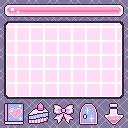
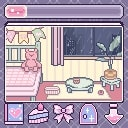
奇怪，为什么 background 推不上去，但是garden，jpg明明可以，好奇怪

diff --git a/src/menu.cpp b/src/menu.cpp
@@ -1,0 +1,42 @@
+#if defined(__AVR__)
+ #include <avr/pgmspace.h>
+#elif defined(__PIC32MX__)
+ #define PROGMEM
+#elif defined(__arm__)
+ #define PROGMEM
+#endif
+
+#include "menu.h"
+
+uint16_t menu[3712] = {
+0xB519,0xA4D8,0x8414,0x7371,0x9414,0x8B92,0x8351,0x8BF3,0xA516,0x7C33,0x8413,0x7350,0x8372,0x9BF4,0xACB7,0x8393,0x9394,0x8B53,0x8B53,0x9BF5,0x8373,0xBD39,0xACF8,0x7B92,0x83F3,0x7BD3,0x7BD3,0x73D2,0x8454,0x94B6,0x8434,0x7392,0x8B93,0x8B93,0x93D4,0xACD7,0x7B92,0x7BB2,0x8C75,0x7BF3,0x7BF2,0x73B2,0xAD38,0xA4F7,0x7B92,0x9414,0x8393,0x8B93,0x8BB4,0x8BD4,0x9C97,0x83D4,0x7BB3,0x8C34,0x7BD2,0x7BD3,0xB5BA,0x6B51,0x7BB2,0x8C55,0x6B31,0x7B93,0x9436,0xA497,0xB53A,0x7352,0x9476,0x7BB3,0x7BB3,0x7BD3,0x7BF3,0x9CD7,0x7392,0x73B2,0x9475,0x7B92,0x8393,0xB519,0x7B11,0x8BF4,0x83B3,0x83F4,0x7BB3,0x8C14,0xA4F8,0xACF8,0x7B72,0x83B3,0x83B3,0x83B3,0x8BD4,0x83B3,0xAD18,0x8C14,0x7B92,0x7BB2,0x7B91,0x9414,0xA496,0x8C34,0x7B92,0x7BB3,0x7BB3,0x83F4,0x8414,0x9CB7,0xB55A,0x7BB3,0x7BB3,0x8C14,0x7331,0x8C34,0x7B71,0xAD38,0x8C14,0x7351,0x83D3,0x83F4,0x7372,0xAD39,0x7BB3,0x83D3,0x83F3,0x7B92,0x83D3,0x9414,0xA4B6,0xACD7,
+0x7311,0x8BF4,0xA4F8,0x7BB3,0x7B72,0x8B92,0xA435,0x7B51,0x7BF2,0x9D16,0x73B1,0x9455,0x8BB3,0xACB7,0x7B72,0x8BF4,0x8332,0x9C16,0x8B94,0x8373,0xACD8,0x83B3,0x6AF0,0xC5BB,0x83D3,0x7BD3,0x7BB2,0x8C34,0x7BF3,0x7BF3,0x9CD7,0x9455,0x8BF4,0x8373,0xACB7,0x8372,0x9435,0x7B91,0x7BB2,0x7371,0x7BB2,0xC5FB,0x6B51,0x83D3,0xA4B6,0x7B92,0x8BD3,0x8393,0x8BB4,0x7331,0x9415,0x9CB7,0x83F4,0x7B92,0x7371,0xAD79,0x5AEF,0x8C55,0x8C55,0x7371,0x9CB7,0x83D4,0xB519,0x83D4,0x83D4,0xA4B8,0x7B93,0x6B51,0x8414,0x7BB3,0x7BF3,0x8414,0xAD59,0x7BD3,0x7B92,0x7B92,0xA496,0x7B52,0xAC97,0x7B72,0x83D4,0x7392,0x8C35,0x9476,0x7B92,0x8BF4,0xB4F9,0x8BD4,0x8372,0x8BD4,0x8BF4,0x7331,0x83D3,0x83F3,0x8C14,0x9454,0x9454,0xA4B6,0x83B3,0x83D3,0x8C34,0x7BB2,0x7BD3,0x83F4,0xA518,0x7372,0x7B93,0xA4F8,0x8C14,0x7B92,0x8BF4,0x7B71,0x9414,0x8BF3,0x9C96,0x8C14,0x83F3,0x6B51,0xBD9A,0x6B51,0x7BB3,0x8C14,0x7BB3,0x83B3,0x7B92,0xA4B7,0x9435,0x83B2,
+0x8BD4,0x83D4,0x7BD3,0xAD38,0x8BD3,0x93B3,0x8331,0x9C14,0x7BD2,0x7C33,0x9D17,0x7BB2,0xBD39,0x8373,0x83F5,0x83D4,0x8C15,0x7332,0x8393,0xA4D8,0x7B73,0x9C97,0x7B93,0x7351,0xA4B7,0x83B3,0x8BF4,0x7B92,0x7BD3,0x8C14,0x7BB2,0x9C96,0x7B72,0xB539,0x8BF4,0x7B72,0x8392,0x8BF3,0x83D3,0x9475,0xA4D6,0x83D2,0x7B92,0x7B92,0x8BF4,0xAD18,0x83B3,0x9435,0x9435,0x8BD4,0x83B3,0x83B3,0xAD18,0x7B92,0xA4F7,0x83F3,0x9455,0x7B92,0x83F3,0x7B92,0x7B92,0xACF8,0x8393,0x7B52,0x83B3,0x83D4,0xAD39,0x83F4,0x7351,0x9455,0x7351,0x7391,0x83F3,0x9CB6,0x7B92,0xC5BB,0x7B72,0x8BF4,0x6AD0,0x8BF4,0x83D3,0x7371,0xAD18,0x9435,0x7B92,0x83B3,0x7311,0xB539,0x93F4,0x8372,0x83B3,0x8BF4,0x9414,0x9455,0x9C75,0x7371,0x9C96,0x83B2,0x8C14,0x83B3,0x7B92,0x8414,0x7BD3,0x9CB7,0x8C15,0x7BB3,0x8C15,0x7352,0xAD18,0x83B3,0x9475,0x8BF3,0x8392,0x6AEF,0x9C95,0xA4B6,0x8BF4,0x9CB7,0x83D4,0x83D4,0x83F4,0x7372,0x83F4,0x83D3,0xA4B7,0x83B3,0x83D3,0x7B71,
+0x8393,0x83B3,0x8414,0x7371,0xB518,0x8B52,0x8B32,0x93D4,0x7BB3,0x73F3,0x73B3,0xA518,0x7311,0x8BF5,0x73B3,0x73F4,0x73B4,0x8435,0xAD5A,0x7BB3,0x7BB3,0x7BB4,0x8C15,0x83B3,0x9435,0xB518,0x7B72,0x7B72,0x9435,0x7351,0x83B2,0x9435,0xA4F8,0x7B92,0x8BF4,0x7B92,0x9434,0x8392,0x7B71,0xA496,0x3108,0x7B51,0x8BD3,0x9414,0x83B2,0x7BB2,0x9C96,0x6B51,0x7331,0x7B92,0x8C14,0x83F3,0x8392,0xBD79,0x8BD3,0x7B71,0x83D3,0x83B2,0x7B71,0x8BD3,0xB539,0x83B3,0x83D3,0x9435,0x83D4,0x7B92,0x83B3,0xACF8,0x9C55,0x6AEF,0x9435,0x83D2,0x8392,0x9435,0x9C55,0x7B71,0x9C55,0x7B92,0x8BD3,0x8BF4,0x83B3,0xB559,0x7351,0x8BF4,0x8BD4,0x9435,0x8373,0x8393,0xB519,0x8372,0x7B52,0x9435,0x83B3,0x7B72,0x83B3,0xB539,0x9434,0x83B2,0x7351,0x9435,0x7B92,0x7372,0xAD39,0x8C35,0x7372,0x83F4,0x8C35,0x83B3,0x7331,0xACD7,0x7B72,0x8372,0x8392,0x93F3,0x93F3,0x7330,0xA4B6,0x9435,0x7B92,0x83D3,0x7BB3,0x83D3,0x83B3,0xACF8,0x8BF4,0x83D3,0x7330,0x8C14,
+0x8BF4,0x7351,0x7BD3,0x7B92,0x8B73,0x492A,0x38A8,0x38C9,0x316A,0x10C7,0x296A,0x296A,0x292A,0x18A9,0x298C,0x194A,0x10E9,0x1929,0x0066,0x296A,0x2129,0x20E8,0x20C8,0x8393,0x8373,0x8BD4,0xACD7,0x8BD3,0x8372,0x8BF4,0x8372,0xA4B6,0x83F3,0xA538,0x7B92,0x8C14,0x7B51,0x8372,0xCD7A,0x38E8,0xEE3D,0x2005,0xA455,0x8BB3,0x7B72,0x7BB2,0x8C34,0xB59A,0x8C35,0x7BB3,0x7371,0x8392,0xA4B6,0x9414,0xA496,0x8BD3,0x8BB3,0x93D3,0x8BD3,0xB4F8,0x8392,0x83B3,0x8BD3,0x7351,0x8BD3,0x8C14,0x83B3,0x8372,0xACD7,0x8BD3,0x93D3,0x93D3,0x8392,0xB518,0x8BF3,0xB518,0x7351,0x7351,0x8C55,0x6AF0,0xB538,0x7B51,0x93F4,0x8392,0x8BF4,0x20A7,0x3129,0x3109,0x28E8,0x3129,0x416A,0x1866,0x8BF4,0x8BF4,0xACD7,0x7330,0xA4B6,0x7B92,0x8BF4,0x7B92,0x83F3,0xA4F7,0x83F4,0x7B92,0x83D3,0x8C35,0x6B11,0x7351,0xA496,0x83B3,0x28E7,0x3949,0x3928,0x28A6,0x30E7,0x3949,0x3949,0x9C55,0x8BD3,0x83D3,0x7B72,0x8C14,0xA4F8,0x7B92,0x8BF3,0x7B92,0x9434,0x83B2,
+0x7311,0x9C55,0x8C34,0x8C14,0x30C8,0xDDBC,0xCCF9,0x38C9,0xB55A,0xB5BB,0xAD7B,0xAD7B,0xC5FE,0xB59C,0x9D5B,0xA5FD,0xB65E,0xADFC,0xBE7E,0xA55A,0xAD5A,0xB57B,0xC5DC,0x2909,0x8373,0x8393,0x9415,0xACD7,0x8BB3,0x8BB3,0xBD38,0x7B92,0x7BF3,0x73D3,0xA518,0x7B71,0x9C14,0xC519,0x3066,0xD55A,0xD539,0xDD9A,0x4109,0x8331,0x7B72,0x9496,0x7BD3,0x6330,0x9CF7,0x8414,0x8C34,0xACF7,0x8BD3,0x8351,0x30A6,0x30C6,0x38E7,0x3908,0xB4B7,0x8351,0x9C14,0x7B51,0x8BF4,0x83B3,0x8BD3,0x7B51,0x8BB3,0x8BB3,0x8B72,0x4949,0x2866,0x3086,0x4149,0x8351,0x8392,0x8BF3,0xAD38,0x9455,0x7BB2,0xB57A,0x8BD3,0x7B30,0x9414,0x93F4,0x2066,0xFF5F,0xE6BF,0xFF5F,0xF71F,0xE67F,0xE69F,0xFF9F,0x1825,0xACD7,0x9C55,0x8BB2,0x7B92,0xAD58,0x83D3,0x7BD3,0xA4F7,0x8C35,0x7BB3,0x7B92,0x8C14,0x7331,0x9455,0x83D3,0x7B72,0x28A7,0xFF9F,0xFFBF,0xFF9F,0xFF7F,0xF69E,0xF6BE,0xEE9E,0x3929,0xC59A,0x7B72,0x9415,0x9C76,0x83D3,0x83F4,0x7351,0x9434,0x83B2,0x83B2,
+0x9414,0x7B51,0x7BB3,0x7B51,0x30A8,0xE5BC,0xFE3F,0x3068,0xBD5B,0xC61D,0xAD7B,0xB5BC,0xBDFE,0xBDFE,0x9D7C,0xAE1E,0xA5BC,0xA57B,0xADBB,0xF7DF,0xF7BF,0xC5FD,0xAD19,0x28E9,0x9436,0x7311,0x8BF4,0x9C35,0x9C55,0xACF8,0x9C55,0x7351,0x73D2,0x73D2,0x8C34,0xACF8,0xAC96,0x40A7,0xE57A,0xED7B,0xFE1D,0xDD19,0xDD5A,0x4109,0x8B93,0x7351,0x7BD3,0x8434,0x7BD3,0xA517,0xA4B6,0x8BD3,0x8B92,0x4128,0xCD79,0xE61C,0xCD59,0xD59A,0x4929,0x38E8,0x7B31,0x8BD3,0x7B71,0x8BF3,0x8BD3,0x7B51,0x93F3,0x4149,0x30A6,0xD59A,0xE5DB,0xDDDB,0xDDBB,0x2865,0x8BB2,0x83B2,0x7371,0x9CD6,0x9CF7,0x7BD2,0x7310,0xA455,0x8331,0x28A7,0xFF5F,0xA4B7,0xB519,0xA497,0xB519,0xACF9,0xACD8,0xACB7,0xFF3F,0x2887,0x8B92,0x8BB3,0x7351,0x9475,0xAD18,0x9475,0x9455,0x8414,0x6B31,0x9455,0x7B92,0x8BF4,0x7331,0x8BF4,0x8BD3,0x4149,0xFF1F,0xEE9E,0xFEDF,0xFEFF,0xFEDF,0xFF7F,0xFF1F,0x28A7,0x8372,0xACF8,0xACF8,0x83D3,0x7B92,0x7B92,0x9435,0x7B72,0x7BB2,0x83D3,
+0x83B3,0x83B2,0x83B3,0x8BD3,0x38A8,0xDD9C,0xE57C,0x3888,0xC59C,0xAD3A,0xB5BC,0xB5BD,0xAD5C,0xB57D,0xB63F,0x9D9C,0xADDC,0xAD7B,0xB5BC,0xFFDF,0xF79F,0xB55B,0xC5DD,0x28E9,0x8373,0x9415,0x7332,0x83B3,0xBD59,0xA4B6,0x7B92,0x8413,0x8454,0x6B91,0x7BB2,0xB4F7,0xBC97,0x4087,0xC456,0xED1A,0xE51A,0xED5B,0xED9B,0x3066,0x93B3,0x8BF4,0x7BD3,0x73B2,0x7BD2,0xAD58,0xA4D6,0x9413,0x8BB2,0x2886,0xE61C,0xFF3F,0xFF7F,0xFEDF,0xF65D,0xD5BA,0x3908,0x8B92,0x9414,0x7B71,0x8392,0x93F3,0x28A6,0xD5BA,0xFEFF,0xFEBE,0xFF7F,0xFF7F,0xDD9A,0x4128,0x8371,0x8BF3,0x8BF3,0xA517,0xA538,0x7BD2,0x93F4,0x8B71,0x2886,0xFF9F,0xA456,0xC5BB,0xBD7B,0xBD9B,0xBD9C,0xAD19,0xD61D,0xB539,0xACB7,0xFF5F,0x30C8,0x8BB3,0x8BF3,0x7B92,0x9CD7,0xB579,0x7BD3,0x7351,0x8C35,0x7B92,0x83F4,0x83B3,0x8BD3,0x8392,0x8BD3,0x2085,0xCDBA,0xDDFB,0xD599,0xD59A,0xDDDB,0xC538,0xD59A,0x3929,0x8392,0xACF8,0xA496,0x8C14,0x7B92,0x83D3,0x83D3,0x83F3,0x83D2,0x83D3,
+0x8BB2,0x8BD3,0x83D3,0x8BD3,0x38C8,0xDD7C,0xE55C,0x40A9,0xBD5B,0xC5FD,0xBD9C,0xAD3B,0xC5DE,0xC5DE,0xB5DD,0xADBC,0xAD5B,0xCDDD,0xBD7B,0xC59C,0xC5BC,0xBD7B,0xCDDD,0x28C9,0x7B73,0x83B4,0x83F4,0xA4F7,0x7BB3,0x8C34,0xA4F6,0x8413,0x7BD2,0x8C34,0xA4B6,0x8B92,0x9B72,0x4066,0xCC36,0xD457,0xF53A,0xF57B,0xE53B,0x40A8,0x3087,0x93F4,0x83B3,0x7392,0xA517,0x8413,0x7B91,0xB558,0x9C34,0x30A6,0xD57A,0xFEDF,0xFF7F,0xFF5F,0xFEBE,0xFEFF,0xD5BA,0x28A6,0x8BB3,0x8B92,0x8351,0x3908,0xDDDB,0xFF1F,0xFE9E,0xFF7F,0xFF5F,0xFE9E,0xD579,0x38E7,0x8B72,0x9C34,0xB559,0x6B50,0x8434,0x9CF7,0x8B92,0x38C7,0xFF1F,0xB4B7,0xB519,0xBD5A,0xC5BC,0xBD9B,0xBD9C,0xB55B,0xB55B,0xCDDC,0xC55A,0xAC97,0xFF7F,0x30C8,0x83B2,0xAD18,0x7BD3,0x7371,0xA4F8,0x83F4,0x7372,0x83D3,0x83F3,0x8BF4,0x7B92,0x8BF4,0x7B51,0x93F3,0x30C6,0x30C6,0x38A6,0x4908,0x3045,0x38E7,0x38E7,0x8B92,0xB4F8,0x8372,0x7B72,0xB539,0x7B92,0x83D3,0x7331,0x9475,0x6B10,0x8C34,
+0x8BB2,0x8392,0x7371,0x7B72,0x38C8,0xE5BD,0xE57C,0x3889,0xCDBD,0xAD1A,0xBD9C,0xF75F,0xE67F,0xE69F,0xBDBD,0xB57B,0xCD9C,0xFEDF,0xEE7F,0xF6DF,0xC53B,0xBD3A,0xB51A,0x398B,0x9C97,0x7352,0xA4F8,0x8414,0x7BD3,0x7BD2,0x8413,0x94B5,0x83D2,0x9C95,0x93F3,0x3086,0x3866,0x5909,0xC3F5,0xD436,0xDC78,0xBBB4,0xCC97,0x5109,0xCD3A,0x2887,0x8BF4,0xAD38,0x7BF3,0x7391,0x9C95,0x6B0F,0xA475,0x9BF3,0x4108,0xFEFF,0xFF7F,0xFF7F,0xFF1F,0xEE5D,0xFEFF,0xDDFC,0x4169,0x30A7,0x3908,0xD5BA,0xFEBE,0xF67E,0xFF3F,0xFF1F,0xFF7F,0xFF1F,0x516A,0xB475,0x8B71,0xACD7,0x83D3,0x8414,0x73D2,0x8414,0xB4F7,0x3066,0xFEDF,0xB4D8,0xDE5E,0xC5BC,0xB57B,0xFFDF,0xBDDD,0xB59C,0xC5FE,0xB55B,0xB51A,0xBD3A,0xE63E,0x3909,0xA4B7,0x8C14,0x7351,0x8C34,0x83F3,0xA4F8,0x7372,0x9435,0x7B72,0x7351,0x83D3,0x8BD3,0x9414,0x8BB2,0x28A6,0x4107,0x38C6,0x38A6,0x40E7,0x3065,0x38E7,0xB4D7,0x8BB2,0x8BB3,0x8BD3,0x7B92,0xAD18,0x7BB2,0x9C76,0x6B10,0x9435,0x7B92,
+0x8BD3,0x8BD3,0x83B2,0x83B3,0x38E9,0xE59C,0xE57C,0x3888,0xBD3A,0xC59C,0xF71F,0xC55B,0xE5FE,0xDDBD,0xF71F,0xCDBC,0xFEBF,0xE59C,0xF63E,0xD53B,0xFEDF,0xD5DD,0xCDBD,0x20A8,0x6B52,0xA4F8,0x7BD4,0x8435,0x6B51,0x73B2,0x8413,0x8413,0x9C95,0x3108,0x4149,0xFEDF,0xFE9F,0x5929,0xCC56,0xCC36,0xCC36,0xC436,0xDD1A,0x3026,0xC519,0xFF7F,0x3109,0x7351,0x83F3,0x8413,0x7B91,0x9434,0x8BB2,0x3907,0xD599,0xFEBE,0xE5FB,0xF63D,0xAC14,0xC4F8,0xC4F8,0x2845,0xEE5E,0xFF3F,0xFEDF,0x4949,0xAC55,0xB476,0xCD38,0xEE1C,0xE5FB,0xFE9E,0xCD59,0x3908,0xB4D7,0x9434,0x7351,0x7371,0x8C75,0x7351,0x38E8,0xFEBF,0xB4B7,0xD5DC,0xA498,0xBD9C,0xB5BC,0xEF9F,0xAD7C,0xAD5B,0xBDDD,0xAD3A,0xCDFD,0xC55B,0xBD3A,0xEEBF,0x3108,0x83D3,0x83D3,0x7B92,0x8BF4,0x83B3,0xAD18,0x7331,0x8C14,0x8C14,0x83D3,0x8371,0x8BB2,0x28A6,0xFFBF,0xFFBF,0xFF5F,0xFF9F,0xFF9F,0xFF7F,0xFF9F,0x30E7,0x7B30,0x8BD3,0x7B72,0x7B92,0x7B92,0xA4D7,0x7B92,0x8C14,0x7BB2,0x83F3,
+0x8372,0x93F4,0x9475,0x9435,0x38E9,0xDD7B,0xDD7C,0x40A9,0xC55B,0xE6BF,0xD5FD,0xFF7F,0xFF1F,0xE5BC,0xCD5A,0xFEBF,0xED7B,0xED3A,0xDCF9,0xE59C,0xDD9C,0xF6DF,0xBD5B,0x2909,0xAD5A,0x8435,0x7BF4,0x7BB3,0x7BD3,0x8C34,0x83D2,0xA4B6,0x49AA,0xF6DF,0xEE7D,0xFF1F,0xFE7E,0xFE7E,0x50E8,0x4066,0x50E8,0x4067,0x40A7,0xC519,0xFF1F,0xFF1F,0xEEBF,0x398A,0x83F3,0x62EF,0x9434,0x8BF3,0xA475,0x2085,0xEE5D,0xFEDF,0xF6BE,0xDDDB,0xEE3C,0xE5FC,0xC4D8,0x3887,0xDD7B,0xE5BB,0xDDBB,0x3886,0xCD18,0xDDBB,0xE5FC,0xCD58,0xFF3F,0xFEBE,0xDDDB,0x30A6,0x8BB3,0xB4F8,0x8392,0x8C14,0x7BB3,0x9414,0x4109,0xFEDF,0xC539,0xBD5A,0xCDFD,0xB57C,0xF7DF,0xF7FF,0xF7FF,0xA57C,0xAD7C,0xC5FE,0xC5DD,0xBD3A,0xB4B8,0xFEFF,0x28C8,0x83D3,0x83D3,0x83D3,0x7B72,0x83D3,0x8C34,0xB57A,0x83B2,0x7B71,0x83D2,0x7350,0xBD79,0x3968,0xF71F,0xFF1F,0xFEFE,0xFEFE,0xF69D,0xFF3F,0xFF9F,0x3928,0x7B51,0x83B2,0x8BF4,0x83D3,0x9435,0x7B72,0xB559,0x83B3,0x7B92,0x7B72,
+0x8352,0x93F4,0x9455,0x9414,0x38C8,0xDD7B,0xE59C,0x40E9,0xDE1D,0xEEDF,0xC539,0xFF7F,0xFF5F,0xE51A,0xE55A,0xF5BB,0xECF9,0xF51A,0xF57B,0xE55B,0xDD7B,0xEE9F,0xC59B,0x2909,0x6B31,0x8414,0x7BD3,0x7BB3,0x8C14,0x83B2,0xA496,0x30E7,0xF6BE,0xFEDF,0xFF5F,0xFEDF,0xFEDF,0xFF1F,0xFEBE,0xFEFF,0xF6BE,0xFEFF,0xFEFF,0xFEFF,0xFFBF,0xDE5E,0xE6BF,0xE6BF,0x2908,0x8C34,0x83B2,0xA4B6,0x9434,0x30E7,0xD5DA,0xFF9F,0xFF3F,0xF69E,0xDDBB,0xCD39,0xFE7E,0x3887,0xEE1D,0xE5DC,0xFE9F,0x1803,0xEE1C,0xE5FC,0xDDBB,0xFEFF,0xF69E,0xFF9F,0xD5DB,0x28A6,0x9414,0x7B51,0xC59A,0x83B3,0x7B72,0x7B52,0x3087,0xFEFF,0xAC77,0xBD3A,0xBDBC,0xC61E,0xA57C,0xEFDF,0x9D7C,0xADFE,0xB5FE,0xB59C,0xBDBC,0xBD5B,0xB4D9,0xFF1F,0x3929,0x83B3,0x83B3,0x83D3,0x8392,0x83D3,0x8BF4,0x62CF,0xA4D7,0x9455,0x8BD3,0xA4D6,0x83B2,0x2085,0xFFBF,0xF6FE,0xFEDE,0xFF1F,0xFEFE,0xF6DE,0xFF9F,0x28A6,0xB518,0x9414,0x7351,0x83F3,0x7351,0x83F4,0x8C35,0x9C96,0x83B3,0x8C14,
+0xA455,0xA456,0x9435,0x83B3,0x30A8,0xDDBC,0xE59C,0x40A8,0xC55A,0xF71F,0xD59B,0xEDDC,0xD497,0xFD7A,0xFF3F,0xE4D7,0xFD5A,0xFD3A,0xE4D8,0xED5A,0xEDDC,0xFEFF,0xCDBC,0x18A7,0x8435,0x8435,0x7372,0x7BB3,0x8BF4,0xB4D7,0x2845,0xFF3F,0xFEFF,0xFEDF,0xFEFF,0xF6BE,0xFF3F,0xF6FE,0xDE3C,0xFF9F,0xF71F,0xE6BE,0xF73F,0x28E8,0x28C7,0x3129,0x396B,0x314A,0x28E8,0x83D3,0xB539,0x7B92,0x8BD3,0x28E7,0xA495,0xB4D6,0xF6DE,0xFF3F,0xFEFF,0xDD9B,0xDD9B,0xEE1D,0x40A8,0x4087,0x3025,0xFEFF,0xD57A,0xCD39,0xFEDF,0xF6BE,0xFF3F,0xAC95,0xB4F7,0x3108,0x8392,0x8392,0x8BD4,0x9C56,0x9436,0x392A,0xFF1F,0xB477,0xC57A,0xCDFD,0xAD5B,0xB5DD,0x8CD9,0xEFFF,0xA5FE,0x9D9D,0xADBD,0xB5DE,0xAD3B,0xC5BD,0xD5DD,0x9C36,0xF71F,0x20A7,0xACD8,0x8BD3,0x8BF4,0x8BF4,0x6B10,0x9C96,0x8BF3,0xA4B6,0xA4B6,0x83D2,0x9433,0x20C5,0xFF9F,0xFF3F,0xFFBF,0xDE1A,0xF6DE,0xFF9F,0xFFBF,0x3107,0x7B71,0x9C95,0x9455,0x7351,0x8C14,0x7B92,0x7B92,0x83D3,0xB559,0xA4F7,
+0xAC76,0xA496,0x9455,0x83D3,0x30C8,0xDDBC,0xDD9C,0x3887,0xBD39,0xC579,0xFEFF,0xED9B,0xFD9B,0xEC97,0xFF1F,0xFD18,0xFD18,0xF4D8,0xFDDC,0xE519,0xFEBF,0xBCF8,0xD61D,0x2109,0x6B92,0x7393,0x7BD3,0x8BF4,0xAC76,0x38C8,0xFF5F,0xF63D,0xFE9E,0xFF5F,0xF6DE,0xF6DE,0xF71F,0x3948,0x3127,0x20E6,0x2947,0x3168,0x18C6,0xAD59,0x9496,0xBDBA,0xD67E,0xC5BB,0x3129,0xACF8,0x7351,0x8BF3,0x7B71,0x8BF3,0x3107,0x3108,0xCD9A,0xA455,0xBCD7,0xC4F8,0x3866,0x3026,0xFE5F,0xD4D9,0xEDBC,0x3025,0x40C7,0xC4D7,0xBCD7,0xBD18,0xACB6,0x30E7,0x28C7,0x8BF3,0x83D3,0x9414,0x7B72,0x9415,0xB519,0x2887,0xFEBF,0xC519,0xB4F9,0xCDFD,0xBDBD,0xA59C,0xBE7F,0x957C,0x9DBD,0xB63F,0xADDE,0xADBD,0xBDDD,0xAD1A,0xBD5B,0xBD3A,0xEEDF,0x28A7,0x93F4,0xACB7,0x8392,0x8C14,0x7B72,0x83B3,0x7B92,0xA4B6,0xAD17,0x9C54,0x7B70,0x28E6,0xFFDF,0xE69C,0xEEBC,0xFF1E,0xFF9F,0xEEBD,0xFF7F,0x3928,0x8BF3,0x8C14,0xA4D7,0x7351,0x8BF4,0x83D3,0x83D3,0x83B3,0xAD18,0x9C96,
+0x8392,0x9414,0x9455,0x8BF4,0x30C8,0xDDBC,0xDDBC,0x38C8,0xC59B,0xC57A,0xCD59,0xFEDF,0xED1A,0xFD5B,0xF4D8,0xFD3A,0xF4F9,0xFDBC,0xDCF9,0xFEDF,0xD59B,0xC55A,0xAD18,0x296A,0x7C14,0x8455,0x7BD3,0xA4D8,0x28A7,0xFF5F,0xF67F,0xFEFF,0xF6DF,0x30C7,0x28E7,0x2908,0x2928,0xA4F7,0xAD58,0xB5B9,0xCE7D,0xC65C,0xB5DB,0xC65C,0xDEBF,0xB57A,0xD65D,0xDE7E,0x3129,0x7310,0x9C76,0x7B71,0x8C14,0x8C13,0x7B71,0x8BD3,0x28A6,0x30C7,0x40E8,0x3887,0xEE1D,0xEDDD,0xD4D9,0x50C8,0xE57B,0xE57A,0xE5BB,0x40E8,0x40E7,0x2886,0x3928,0x8BD3,0x8BD3,0x8392,0x9414,0x7B72,0x8BB3,0x8393,0x7B12,0x414B,0xFEDF,0xB477,0xCD9B,0xBD3A,0x18A9,0x318C,0xA59C,0xA5DD,0xA5DD,0xA5BD,0xAD9D,0xB59D,0xC5FE,0xB55B,0xC55C,0xB4B8,0xFF5F,0x28C7,0x8BB3,0x8BB3,0xACF8,0x7B72,0x8BF4,0x83D3,0xA4B6,0x3148,0x3107,0x2085,0x3948,0xFF7F,0xFF1E,0xFFBF,0xFFBF,0xFF1E,0xF69C,0xFF1E,0xFEFE,0xFF9F,0x30C6,0x30E7,0x3108,0x3108,0x28C7,0x8392,0x8C14,0xA4B7,0x7B72,0x8BF4,
+0x73B3,0x8414,0x7371,0xBD79,0x3908,0xCD5A,0xDDFC,0x30C8,0xC5BC,0xBD7B,0xC57C,0xD5BD,0xF61F,0xFDBE,0xECDB,0xED1B,0xE55C,0xD53B,0xFEBF,0xCD7B,0xC57B,0xBD7B,0xBDDC,0x18C8,0x9D18,0x7BF4,0x9CD8,0x83F4,0x316A,0x18A7,0x3109,0x3129,0x2129,0x9D19,0x9CF8,0xC65E,0xAD9B,0xC67E,0xC65D,0xB5BB,0xD6BF,0xC65D,0xBDDC,0xC5FC,0xDEDF,0xB55A,0xDE9F,0xD65E,0x2909,0x7372,0x83D4,0x83B3,0x83B3,0x8BD3,0x8BB3,0x8331,0x38E8,0xDDDB,0xE5DB,0xF65D,0xD518,0xFE5D,0xFF1F,0x4887,0xFEFF,0xFE7E,0xEDBB,0xE5BB,0xE5FC,0xEE3C,0x30C7,0x8B92,0x7B51,0x8BF3,0x83B3,0x8BF4,0x7B72,0x8BD4,0x93F5,0x30A8,0xFEBF,0xCCB8,0xCD7B,0x2888,0xFF1F,0xF6FF,0x10A9,0xB5FE,0xA5BC,0xB5FE,0xBD9D,0xFFBF,0xB57B,0xC5DD,0xBCF9,0xBCD9,0xFF3F,0x30E7,0x8BD3,0x8BD3,0x83F3,0x9495,0x8C34,0xA4F7,0x20E6,0xFFBF,0xFF9F,0xFF7F,0xFF7F,0xFE7D,0xFEFF,0xFEFF,0xFF7F,0xFEFE,0xF63B,0xFF3F,0xFE9D,0xFEDE,0xFF7F,0xFF5F,0xFF9F,0xFEFF,0xFF9F,0x3908,0xACD7,0x9435,0x7351,0x83D3,
+0x83F4,0x83F3,0x8BF4,0x8351,0x3086,0xD59A,0xEE7E,0x20A7,0xAD3A,0xB59C,0xAD5C,0xB55C,0xD5DF,0xEDFF,0xF5BF,0xE57D,0xCD5C,0xFF9F,0xBD3B,0xBD7B,0xB55A,0xBDBC,0xB57B,0x294A,0x8435,0x94B7,0x8415,0x73B3,0x1087,0xC61D,0xC5FC,0xCE3D,0xBE3E,0xB5FD,0xBE5E,0xD6DF,0xB5DC,0xCE7F,0xD6BF,0xAD7B,0xCE5F,0xC5FD,0xD67F,0xD63E,0xC5BC,0xC5DC,0x1867,0x28C8,0x398B,0x83B3,0x7B93,0x9435,0x7331,0x8372,0x8BB3,0x4129,0xEE5D,0xD57A,0xE5FC,0xEDFC,0xFF7F,0xFEDF,0xC496,0x4066,0xB3D3,0xFEBF,0xFEFF,0xF63D,0xE5DB,0xD579,0xD5DB,0x4169,0x9435,0x9414,0x6AF0,0x8BD3,0x9415,0x7331,0x8372,0x30A8,0xFE9F,0xC457,0xC519,0x390A,0xFEBF,0xFF1F,0x294B,0xADBC,0xADDD,0xAD9C,0xBD5C,0xF73F,0xB5BC,0xBDBC,0xBD3A,0xC4F9,0xEE9F,0x3949,0x7B71,0x7351,0x8C13,0x83D3,0xA4F7,0x8413,0x2928,0xFFBF,0xEE7D,0xFF5F,0xD518,0xFE1C,0xE4F8,0xFF3F,0xFEBE,0xF5FA,0xEDBA,0xDD17,0xF61B,0xDD18,0xF61C,0xE5BA,0xE5BA,0xFF5F,0xFF7F,0x2886,0x8372,0x7B71,0x8C34,0x83F4,
+0x9C15,0x7B11,0x9372,0xAC15,0x5129,0xDD9B,0xC539,0x30E8,0xB57B,0xCE7F,0xADBC,0xA57B,0xB5BD,0xCDFE,0xDE3F,0xCD9C,0xFF9F,0x9C97,0xBD7B,0xC5FC,0xFFDF,0xAD7A,0xBDBB,0x2109,0x9CD8,0x8435,0x9476,0x8C35,0x314A,0xD61D,0xC57B,0xD63D,0xD65E,0xAD7A,0xD69F,0xC5FD,0xBDDC,0xC5FC,0xCE1D,0xC5BB,0x396A,0x1866,0x28C8,0x3109,0x416A,0x3909,0xACB7,0xC57A,0x20A7,0x83B3,0x8C14,0x7331,0x83B3,0xA496,0x2086,0xC559,0xFEDF,0xFEFF,0xFEDF,0xFEDF,0xFEDF,0xD559,0x3886,0x9B92,0x50E8,0xE59A,0xFE3D,0xFF7F,0xF69E,0xF6BE,0xFF9F,0xC59A,0x2086,0x83B2,0x8BF4,0x8BF4,0x8BD4,0x8BD4,0x8372,0x3909,0xFEFF,0xC4F9,0xB539,0x398B,0xE65F,0xEEDF,0x192A,0x9DBB,0xA5FC,0xA59C,0xCE3F,0xFFBF,0xBE1D,0xBDFC,0xC59B,0x9C15,0xFF1F,0x30E7,0x9414,0x8BD3,0x7B91,0xB579,0x83F3,0x9475,0x83B2,0x28E7,0xFFBF,0xC4F7,0xD558,0xDD18,0xF59A,0xE518,0xF579,0xF579,0xE4D7,0xED38,0xFDDB,0xED9A,0xD4D7,0xE59A,0xBC96,0xFF9F,0x30A7,0x8BD3,0xBD9A,0x83B2,0x7392,0x83F3,
+0x7AD0,0x9BD4,0xCD19,0x9331,0x48C7,0xDD7A,0xE5FC,0x28A8,0xC5FC,0xDF1F,0xB61D,0xA5DC,0xADDC,0xADBC,0xCE5E,0xB57B,0xA4F9,0xBDBC,0xC5FC,0xEF5F,0xFFDF,0xFFDF,0x9CF8,0x2949,0x73B3,0x83D4,0x8BF4,0xA4B7,0x28C8,0xE63E,0xCD9B,0xEE7F,0xD61D,0xCDFC,0xDE7E,0xD61C,0x28E8,0x3108,0x394A,0x30E8,0xB4D7,0xBCF8,0xF6DF,0xAC76,0xF6BF,0xF6BF,0xBCD7,0xF6FF,0x28E8,0x7B92,0x83D4,0x8BF4,0x8392,0x28E8,0xD61C,0xFFBF,0xFF5F,0xEE7E,0xFF3F,0xFEFF,0xDDDB,0xC4F7,0x3065,0x9371,0x4086,0xBC76,0xE5BA,0xFEBE,0xF6BE,0xFF1F,0xF6DF,0xE6BE,0xE69E,0x28E8,0x8C14,0x7B92,0x8BF4,0x83B3,0x83B3,0x3929,0xFEBF,0xAC76,0xBD9A,0xAD39,0x396B,0x314A,0xADBC,0xAE1D,0xA5FC,0xEFFF,0xF77F,0xFFBF,0xF7FF,0xEF7F,0xBD7B,0xBD39,0xFF1F,0x28C7,0x93F3,0x8BD3,0x9CB6,0x7B92,0x8C34,0x83F3,0xACF7,0x7B71,0x38E7,0xFF3F,0xBCB6,0xEDDB,0xED79,0xED39,0xFD5A,0xF4D8,0xFD9A,0xF539,0xDCD7,0xFF5F,0xFF3F,0xC496,0xFF7F,0x38E8,0x9C34,0x7330,0x8392,0x9C96,0x8C14,0x7371,
+0xBD19,0xBCF8,0x9352,0x9331,0x40A7,0xE5DB,0xD59B,0x30E8,0xB55A,0xC65E,0x9D9B,0xA5FC,0xA5FC,0x9559,0xADFC,0xA59A,0xBE1C,0xCE5E,0xAD5A,0xB5BB,0xF7DF,0xB5DB,0xB5BB,0x2129,0x9476,0x6B10,0x8BD4,0x9C15,0x30A8,0x40E9,0x3067,0x2005,0x3087,0x2866,0x30A7,0x38C7,0xC539,0xAC75,0xFF1F,0xF69E,0xAC35,0xFF5F,0xFEDF,0xBCB7,0xFF5F,0xFEDF,0xB476,0x2865,0x8BF4,0xAD19,0x83D3,0x7B92,0x8BD3,0x7310,0x3969,0x1825,0x2886,0xC579,0xEE9E,0xF6DF,0xC518,0x3065,0xA414,0xBCB6,0xC4D7,0x3886,0xD57A,0xFF3F,0xFF5F,0xA455,0x3949,0x3108,0x3128,0x7351,0x7B92,0x8BD3,0x8393,0x8392,0xB4F8,0x2066,0xFEFF,0xBCD8,0xC5BA,0xC5DB,0xBD7A,0xB57B,0xADBB,0xADDC,0xA5BB,0xADDC,0xCE3E,0xFF9F,0xAD7A,0xC5FC,0xC5BB,0xAC76,0xF6DF,0x4149,0x8392,0xACD7,0x8BD3,0x83F3,0x7371,0x83F3,0x83F3,0xACF7,0xACB6,0x3086,0xFF9F,0xBC95,0xE579,0xED79,0xFD19,0xFD19,0xFEFF,0xF4F8,0xFD7A,0xFDDB,0xBC55,0xFF7F,0x4108,0x8B92,0x7310,0x9C55,0x9454,0x7372,0xBD9A,0xAD38,
+0xA497,0xB4F8,0x8B72,0x93B2,0x4929,0xDD9A,0xCD39,0x3909,0xB57A,0xBDFC,0xA59B,0xB61D,0xB65D,0xA5BA,0xADFB,0xB5FB,0xA559,0xA539,0xB5BB,0xB5BA,0xB5DB,0xAD9A,0xC61C,0x20E7,0x6B31,0x9C76,0x7B31,0x93F4,0x3067,0xFF1F,0xFEFF,0xD53A,0xFF5F,0xFEFF,0xBCD7,0xFEDF,0xFE9E,0xBCB7,0xFEBE,0xFEDF,0xBC96,0xFF1F,0xFEBE,0xBC96,0xFE9E,0xFEBE,0xCCF7,0x38E7,0x8372,0x7B92,0x9C96,0x83B3,0x83D3,0x8BD3,0x8BF3,0x8BF3,0xB4F7,0x30E7,0xFF5F,0xFF3F,0xFF5F,0x30E7,0x8351,0xB4D7,0xBCF7,0x4128,0xF6DF,0xEE9E,0xFF7F,0x28E7,0x9414,0xA4B6,0x83D3,0x83B2,0x8C14,0x9434,0x7B72,0xACF8,0x93F4,0x3909,0xFEDF,0xC518,0xB4F8,0xBD59,0xCDDC,0xC5BB,0xBDDC,0xB5DC,0xBDFC,0xAD5A,0xC5BC,0xFFBF,0xBD9B,0xBD5A,0xC55A,0xBCF8,0xFEFF,0x28A7,0xBD18,0x83B2,0x8BF3,0x8C14,0x7B92,0x83F3,0x7351,0xACD7,0xC579,0x8B71,0x4107,0xFF3F,0xB455,0xCC76,0xDC36,0xEC57,0xCB93,0xDC77,0xCC35,0xABB3,0xFF7F,0x38A7,0x7B10,0x9C54,0x83D2,0x7371,0x7B92,0x7BB2,0x8C14,0xB579,
+0x8434,0x6B51,0xACF7,0x8BD2,0x30E7,0x2045,0x496A,0x30E8,0x28C8,0x2909,0x18E9,0x2129,0x2149,0x18E8,0x18E7,0x2128,0x296A,0x2108,0x2969,0x2108,0x2929,0x18C7,0x2929,0x2908,0x8BF4,0x83B3,0x8352,0x8351,0x4109,0xFEDF,0xFE9F,0xB476,0xF67E,0xFEFF,0xB455,0xFEBF,0xFF7F,0xBCB7,0xF65D,0xFF5F,0xC517,0xE5DB,0xFF3F,0xDDBA,0x3045,0x40C7,0x40C7,0x30C7,0x8BD3,0x83B3,0x9414,0xB539,0x8392,0x7B92,0x8C14,0xA496,0x83B3,0x2086,0xFFBF,0xFFBF,0x3108,0x9413,0x9C34,0x9C14,0x8B92,0xAC75,0x498A,0xFF7F,0xFFBF,0x28C7,0x83B2,0x8C14,0xACF8,0x8BF4,0x83D3,0x62CF,0xBD59,0x7B72,0x7B51,0x3929,0xFEFF,0xA3D4,0xEE3D,0xD59B,0xBCF9,0xCD7B,0xB519,0xBD7A,0xCDFD,0xACB8,0xCDBC,0xFF7F,0xC55A,0xC4F8,0xDD7B,0xBC77,0xEE5E,0x416A,0x7B51,0x93F4,0x7B51,0x7B71,0x8BF4,0x83D3,0xBD9A,0x7330,0x9C34,0xAC96,0x8B71,0x4928,0xFF7F,0xCCB6,0xD436,0xDC16,0xDC56,0xCC36,0xD4B7,0xFF7F,0x3086,0x93B2,0x93F3,0x7B91,0x83D3,0x7B92,0x9455,0xAD18,0x9CB6,0x6B30,
+0x6BF3,0x7C74,0x7BF3,0xA4F7,0x3107,0xFF1F,0xEE9E,0xFF1F,0xFEFF,0xF71F,0xF71F,0xEEDF,0xF71F,0xF73F,0xEEFF,0xFF5F,0xEEFF,0xEF1F,0xEF1F,0xE71F,0xEF5F,0xE6DF,0xEF3F,0x20E7,0xA4B7,0x8BD3,0x93F3,0x8372,0x38E8,0xFF3F,0xF67E,0xBCD8,0xFF1F,0xFEDF,0xC4F7,0xF6BE,0xFEDF,0xBCB6,0xFEDF,0xF6BE,0x38E7,0x38C7,0x38E7,0x2845,0x9BD3,0xB4B6,0x9392,0x8B92,0x8372,0x83B3,0x8392,0x7B72,0xB518,0x83D3,0xA4B7,0x8BD3,0x83B3,0x3108,0xFF9F,0x2907,0x8392,0xACD7,0x9414,0x8391,0x8BB2,0x8BB2,0xACD7,0x2907,0xFF9F,0x3128,0x8C14,0x7BB2,0x83B3,0xA4D7,0x83D3,0xB579,0x8392,0x8BD3,0x93F4,0x2887,0xFEBF,0xC4B8,0xB456,0xA415,0xCD39,0xB497,0xB4D8,0xB4D8,0xA457,0xC53A,0xB498,0xB456,0xCCF9,0xBC77,0xC477,0xC497,0xFF3F,0x2886,0x8BD3,0x83B2,0x8BD3,0x83D3,0x83D3,0xA4D7,0x7B72,0x8C14,0x7B71,0x8BB2,0xB4D7,0x8B71,0x4949,0xFF3F,0xD477,0xCBF5,0xD476,0xC476,0xFF7F,0x3065,0x93D2,0x83B2,0x7B71,0x83F3,0x83D3,0x83F3,0xA4F7,0x7B71,0x83B2,0x8C14,
+0x6BF3,0x7C75,0x73F2,0x73B1,0x2907,0xFF5F,0xEE7D,0xFF1F,0xFEFF,0xFF1F,0xEE9F,0xFEFF,0xF6BF,0xFF1F,0xF6DF,0xFF3F,0xF71F,0xEEDF,0xEEFF,0xFF7F,0xEEFF,0xFF7F,0xD65D,0x3129,0x8BD3,0xACD7,0x8BD3,0x8BF3,0x7B51,0x3929,0x30E8,0x30C7,0x38E8,0x30C7,0x3908,0x30C7,0x30C7,0x3908,0x30C7,0x30E8,0x8B92,0x8BB2,0x8392,0x8392,0x8BB2,0x93F3,0x9C35,0xA476,0x8BD3,0x8BD3,0x7B92,0x83D3,0x83D3,0xA4B7,0x9455,0x7B71,0x8BF3,0x7B71,0x3169,0x83D3,0xA4B6,0x83B2,0x8BF3,0x7351,0x8BF3,0x8392,0x7B72,0xB538,0x20A6,0x83F3,0x7B92,0x83D3,0x7B92,0x8BF4,0xA4D7,0x83D3,0x7B72,0x8BD3,0x83B3,0x3909,0xFEDF,0xFEBF,0xFEBF,0xFEDF,0xFEDF,0xFEDF,0xF6DF,0xF6DF,0xFF1F,0xF69F,0xF6BF,0xFEFF,0xFEDF,0xFE9F,0xFE7E,0xFEFF,0xFEFF,0x2086,0x9414,0x7330,0x9414,0x83B3,0x9C96,0x83D3,0x83D3,0x7B71,0x8BF3,0x8BF3,0x8BB2,0xA495,0x93D2,0x38C7,0xFF5F,0xFF5F,0xFF7F,0xFF7F,0x30C7,0x8371,0x83B2,0x8C13,0x8413,0x73B2,0x8434,0x9CB6,0x9435,0x7B72,0x8372,0x93D4,
+0x7C75,0x6371,0x73D2,0x9475,0x7B91,0x3928,0x3928,0x30A7,0x30A7,0x4109,0x30A8,0x38C9,0x30A8,0x4109,0x30A7,0x28A6,0x3929,0x30E8,0x3109,0x30E8,0x2887,0x20A7,0x49CB,0x7B92,0x83D3,0x83B2,0x9C75,0x9434,0x83B2,0x83B2,0x83D2,0xACD7,0x7B72,0xB539,0x8392,0x8BD3,0x8BD3,0x8392,0xB539,0x7B72,0x83B3,0x83B3,0x83B3,0x83B2,0x83B3,0x83D3,0x8C14,0x9435,0x9435,0x7351,0x8BF4,0x83D3,0xA4B7,0x8BF4,0x9C76,0x9C75,0x7B71,0x8BF4,0x7BB2,0x9C96,0x9434,0x7BB2,0x7BB2,0x8C34,0x83B2,0x7B71,0xA4B6,0x6B10,0xA4F7,0x83D3,0x83F4,0x7392,0x9455,0x9475,0x8BF4,0xA4B7,0x83B3,0x8C14,0x7B52,0x8393,0x30C7,0x38A7,0x38A7,0x38C7,0x30C8,0x30E8,0x30C8,0x30C8,0x28A7,0x3909,0x4129,0x30C7,0x38A7,0x4909,0x40E8,0x30A6,0x30C7,0x8BD3,0x8392,0x8392,0x83B3,0xACD7,0x8BF4,0x83B3,0x8BF4,0x7B92,0x8BD3,0x83D3,0x7B51,0x9414,0xAC96,0x8BB2,0x3086,0x4108,0x2886,0x3908,0x8BD2,0xBD79,0x83F2,0x7BD2,0x7BF3,0x8434,0x8C75,0x8C14,0x83B2,0x8BD3,0x93D4,0x8392,
+0x6B32,0x8C15,0x83B3,0x8BD3,0x93F3,0x7B30,0xAC75,0x8B92,0x93D4,0xA436,0x9BF5,0x93D4,0x8B93,0x9C35,0x9414,0x8BD3,0xBD19,0x8332,0x8352,0x8372,0x8372,0x93F4,0x8392,0x8392,0x8392,0x8C14,0x7BB2,0xA4D6,0x9434,0x7371,0xA4F7,0x8C14,0x83D3,0x83B3,0xACF8,0x7B92,0x7B92,0xACF8,0x7BB3,0x83D4,0x83D4,0x83D4,0x7BD3,0x7BB3,0x7BB3,0x7BB4,0x83D4,0x83F4,0x9476,0x9435,0x83D3,0xA4D7,0x83D3,0x8BF4,0x83B3,0xA4B7,0x83F3,0x9435,0x9C96,0x9435,0x7BB3,0x8C34,0x7351,0x8414,0x7B92,0x9455,0x7BB2,0x6B51,0x9CB7,0xA4F7,0x7B92,0x9435,0x9C96,0x83D3,0x8BF4,0x83D3,0xACF8,0x7B92,0x8BF4,0xA4D7,0x83D3,0x8BD3,0x8BB3,0x8BB3,0x83D3,0x83F3,0x83D3,0x83D3,0x7B92,0x9455,0x9475,0x8C14,0x93F4,0xA455,0x9C34,0x8391,0x83B2,0xB518,0x6B10,0x9C55,0x9C96,0x9414,0x83D3,0x83B3,0x83B3,0x8392,0x8BD3,0x8BF4,0x7B72,0x8392,0x9C55,0xA4B6,0x9434,0x62AE,0xAD17,0x9475,0x6B50,0x6B50,0xA538,0x73B2,0x8434,0x8C75,0x8C55,0x83B3,0x7B72,0x8BD4,0x9414,0x8372,
+0x8B94,0x93F5,0x8393,0x8372,0x72F0,0x9C55,0x8BB2,0xB4D7,0xA456,0x9C15,0x8BB4,0x8393,0x8392,0x9434,0x9CB5,0xA4B6,0x8352,0x8352,0xA456,0x93D4,0x7B31,0x93D4,0x9414,0x83B3,0x8BD3,0x7B72,0x83D3,0x9455,0xA4D7,0xA4D7,0x83F3,0x7392,0x7392,0x9476,0x7372,0xAD18,0xAD18,0x7372,0x9476,0x7392,0x7BD4,0x7BD4,0x83D4,0x7BD4,0x7BB4,0x7BB3,0x7BB4,0x7BD4,0x9435,0xA4B7,0xACF8,0x8BF4,0x83D3,0x7B72,0x83F3,0x83F4,0xA4D7,0x9C76,0x8C14,0x7B92,0x7372,0x9475,0x7371,0x7BB3,0x83D3,0x83D3,0x7BB3,0x7B92,0x7B92,0x8C34,0x9C76,0xA4D7,0x8BF4,0x83D3,0x7331,0x83B3,0x9435,0xACF8,0x9455,0x8C35,0x7BB3,0x7BB3,0x8393,0x83B2,0x73D2,0x73D2,0x7BD2,0x7BB2,0x7BD2,0x7BD3,0x7C13,0x94B6,0x9C96,0x8BD3,0x83D2,0x7BD2,0x9454,0x83D3,0xAD18,0xA4F7,0x8C14,0x7351,0x8C15,0x7B72,0x83B3,0x8393,0x8393,0x8BD3,0x8BD3,0x8392,0x7B72,0x83D2,0xACF7,0xA517,0x8C34,0x7391,0x8413,0x7BF3,0x8413,0xA538,0x9CD6,0x8413,0x7BD3,0x83F3,0x83B3,0x8392,0x8BB3,0x8BB3,
+0x9395,0x7AF2,0x9BF5,0x8392,0x8BF4,0x9434,0x7330,0xAD18,0xACD8,0x8BD4,0x8393,0x83B3,0x7BB3,0x83F3,0x9CD6,0xB558,0x8BD3,0x9C56,0x72F1,0x72F1,0x93F5,0x8393,0x7B31,0x83B3,0x8BD3,0x83D3,0x7B92,0x7B92,0xAD38,0xAD59,0x7BD3,0x8C14,0x83D3,0x6B31,0x83D3,0xA518,0xA518,0x83D3,0x6B31,0x83D4,0x7BB4,0x83D4,0x83D4,0x83D4,0x7BD4,0x7BB4,0x7BB4,0x83D4,0x7BB3,0xA4D7,0xAD18,0x7B92,0x7B92,0x83D3,0x8C14,0x7BB2,0xAD18,0xACF8,0x83D3,0x83B3,0x7B72,0x83D3,0x83B3,0x8C14,0x83D3,0x7351,0x9456,0x83D3,0x7BB3,0x7B72,0xB539,0xA4D7,0x83B3,0x83B3,0x7B92,0x83B3,0x83B3,0xB559,0xAD18,0x7372,0x7BF3,0x7BD3,0x83B3,0x83D3,0x7BF3,0x7413,0x7BF3,0x83D3,0x83F3,0x7BD2,0x73F2,0x9D58,0xAD18,0x83B2,0x7BD2,0x8413,0x62CF,0x83D3,0xB579,0xACF8,0x7351,0x8BF4,0x7B72,0x8BD4,0x8BD4,0x8BD4,0x7B72,0x7B72,0x8BD3,0x8BD3,0x8392,0x83D2,0x9CB6,0xAD58,0x7BB2,0x8413,0x7392,0x83F3,0x7371,0xAD38,0xAD18,0x83D3,0x7B72,0x8C14,0x8BF4,0x7B92,0x8392,0x8BF4
+};
+

diff --git a/src/main.cpp b/src/main.cpp
@@ -24,6 +24,7 @@
 #include "Char1_F_Stand3.h"
 #include "CharBg.h"
 #include "Out.h"
+#include "menu.h"
 
 #define LCD_BL   10 // 背光 GPIO
 
@@ -35,6 +36,8 @@
 
 TFT_eSPI tft = TFT_eSPI();//显示图片用的
 TFT_eSprite  spr = TFT_eSprite(&tft);//用于动画去闪，用 Sprite 先在 RAM 里合成，再一次推屏
+TFT_eSprite MenuSpr = TFT_eSprite(&tft);
+
 U8g2_for_TFT_eSPI u8g2;  // 声明中文显示的对象
 Preferences preferences;  // NVS 存储实例
 extern TJpg_Decoder TJpgDec; // 使用外部定义的实例
@@ -68,15 +71,26 @@ void drawTransparentImage(int16_t x, int16_t y, int16_t w, int16_t h, const uint
 }
 
 /////////////////////////////////  select & main menu  ////////////////////////////////////////////////////////////////////////////////////////////
+void initMenuSprite()
+{
+  MenuSpr.setColorDepth(16);//1 bit(黑白）,16bit(RGB565)(默认），24/32 bit(RGB888/ARGB8888)
+  MenuSpr.createSprite(128, 29);          // Menu尺寸
+  MenuSpr.setSwapBytes(true); //对调RB,要不颜色会乱
+}
 
 int mainSelect_x = 1;  // 起始select框位置
 
 void drawSelect() {
-    drawTransparentImage(mainSelect_x, 101, 25, 26, select_img, 0x0000); // 设置黑色替换成透明色
+    //drawTransparentImage(mainSelect_x, 101, 25, 26, select_img, 0x0000); // 设置黑色替换成透明色
+    MenuSpr.pushImage(mainSelect_x, 2, 25, 26, select_img, 16);  // 画select框
+    MenuSpr.pushSprite(0, 99, TFT_BLACK);  // 一次性推上屏幕,最后一个参数TFTblack是透明
 }
 
 void clearSelect() {
-    TJpgDec.drawFsJpg(0, 99, "/menu.jpg");    // 用背景覆盖原位置
+    //TJpgDec.drawFsJpg(0, 99, "/menu.jpg");    // 用背景覆盖原位置
+    MenuSpr.fillSprite(TFT_BLACK);
+    MenuSpr.pushImage(0,0, 128, 29, menu, 16);  // Menu
+    //MenuSpr.pushSprite(0, 99, TFT_BLACK);  // 一次性推上屏幕,最后一个参数TFTblack是透明
 }
 
 void moveSelect() {
@@ -365,7 +379,7 @@ const uint8_t CharPattern[] = { 1, 2, 3, 2 };
 void initCharSprite()
 {
   spr.setColorDepth(16);//1 bit(黑白）,16bit(RGB565)(默认），24/32 bit(RGB888/ARGB8888)
-  spr.createSprite(120, 78);          // hungerBar尺寸
+  spr.createSprite(120, 78);          // 背景尺寸
   spr.setSwapBytes(true); //对调RB,要不颜色会乱
 }
 
@@ -429,6 +443,8 @@ void setup() {
     //TJpgDec.setSwapBytes(true);//修正 RGB 颜色顺序
     
     TJpgDec.drawFsJpg(0, 0, "/background.jpg");
+    
+    initMenuSprite();
     drawSelect();// 初始绘制select
     drawHunger();
     initCharSprite();

diff --git a/src/select.cpp b/src/select.cpp
@@ -14,7 +14,7 @@
 
 #include "select.h"
 
-const unsigned short select_img[650] PROGMEM= {
+uint16_t select_img[650] PROGMEM= {
 0x30E8,0x30E8,0x30E8,0x30E8,0x30E8,0x30E8,0x30E8,0x30E8,0x30E8,0x30E8,0x30E8,0x30E8,0x30E8,0x30E8,0x30E8,0x30E8,0x30E8,0x30E8,0x30E8,0x30E8,0x30E8,0x30E8,0x30E8,0x30E8,0x30E8,
 0x30E8,0x0000,0x0000,0x0000,0x0000,0x0000,0x0000,0x0000,0x0000,0x0000,0x0000,0x0000,0x0000,0x0000,0x0000,0x0000,0x0000,0x0000,0x0000,0x0000,0x0000,0x0000,0x0000,0x0000,0x30E8,
 0x30E8,0x0000,0x0000,0x0000,0x0000,0x0000,0x0000,0x0000,0x0000,0x0000,0x0000,0x0000,0x0000,0x0000,0x0000,0x0000,0x0000,0x0000,0x0000,0x0000,0x0000,0x0000,0x0000,0x0000,0x30E8,

diff --git a/src/fortune_draw.cpp b/src/fortune_draw.cpp
@@ -3,7 +3,7 @@
 extern const char* fortunes[];
 extern const int fortuneCount;
 extern void drawSelect();  // 声明 drawSelect 函数
-extern const unsigned short select_img[650];
+//extern uint16_t select_img[650];
 
 
 

diff --git a/include/select.h b/include/select.h
@@ -3,6 +3,6 @@
 
 #include <Arduino.h>
 
-extern const unsigned short select_img[650];  // 声明而不是定义
+extern uint16_t select_img[650];  // 声明而不是定义
 
 #endif

diff --git a/src/menu.h b/src/menu.h
@@ -1,0 +1,8 @@
+#ifndef MENU_H
+#define MENU_H
+
+#include <Arduino.h>
+
+extern uint16_t menu[3712];  // 声明而不是定义
+
+#endif
